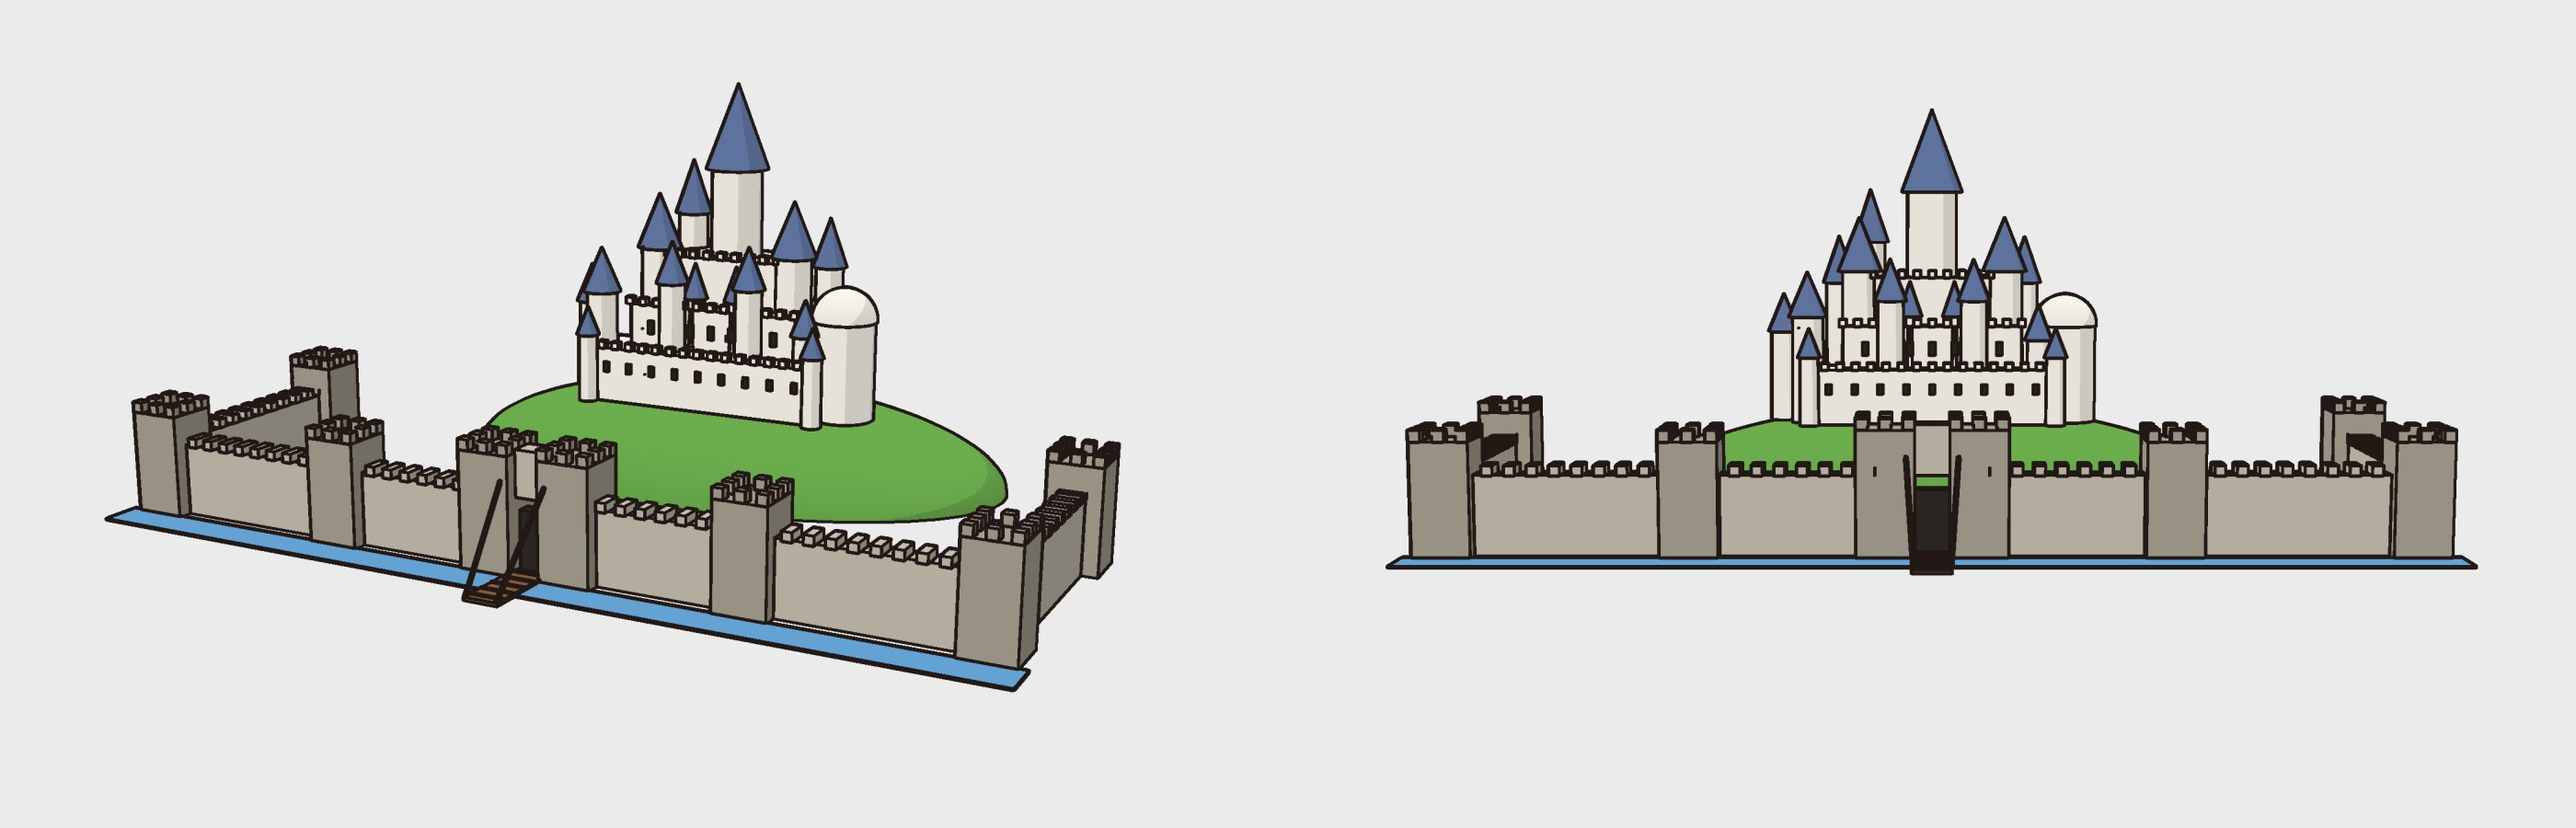
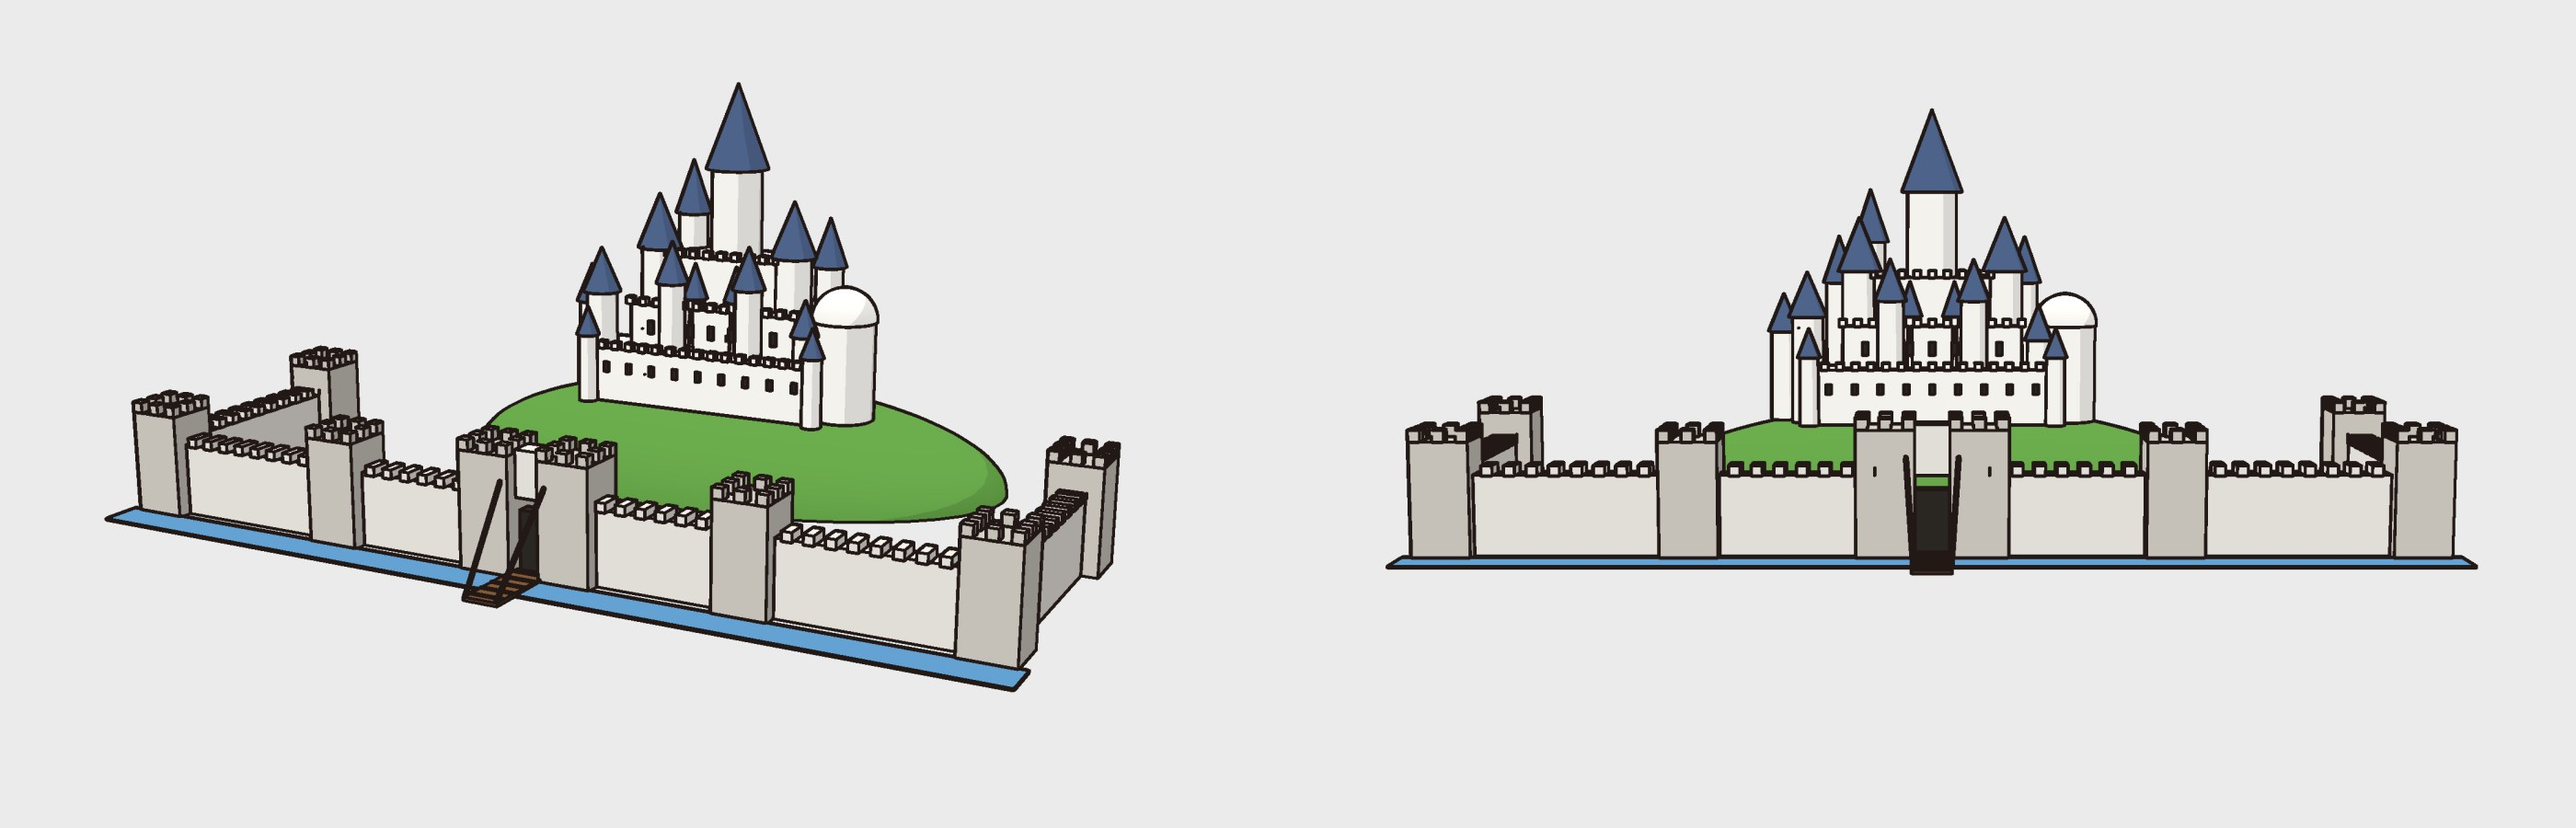
EP002 animatic: final-art loaders in lib (final, final_plate), shield QC stop, castle retint
Claude-Session: https://claude.ai/code/session_01Bi3PXNKGSfsqTH99bT8fk5

Changed region(s): [[0.5282, 0.4978, 0.9632, 0.6844], [0.0311, 0.4356, 0.435, 0.8089]]

diff --git a/secondquest/tools/props3d/scene.ts b/secondquest/tools/props3d/scene.ts
@@ -559,7 +559,7 @@ const crt = () => {
  *  spire, slender round towers with blue-slate cones, and a domed tower on the right. Front faces +z. Units: arbitrary. */
 const hyruleCastle = () => {
   const g = new THREE.Group();
-  const STONE = toon('#b6b0a2'), STONE_D = toon('#9a9486'), PALE = toon('#e9e5dc'), ROOF = toon('#5b6f98'), WOOD = toon('#7a5232'),
+  const STONE = toon('#e4e1da'), STONE_D = toon('#c8c4bb'), PALE = toon('#f7f5f0'), ROOF = toon('#4c6187'), WOOD = toon('#7a5232'),
     DARK = toon('#2b2722'), GRASS = toon('#63a047'), WATER = toon('#5a95c2'), IRON = toon('#3a3a40');
   let part = 800;
   const crenels = (x0: number, x1: number, y: number, z: number, axis: 'x' | 'z', mat: THREE.Material) => {

diff --git a/secondquest/scripts/animatic/lib.py b/secondquest/scripts/animatic/lib.py
@@ -115,6 +115,67 @@ def label_for(spec):
     return spec.get('label')
 
 
+# ------------------------------------------------------------------ final art (generated 2026-10-05, Producer-approved)
+# The generated images are never modified: overlays (the 3D shield, the crest on the banners) are composited on top
+# here, and mirrors are engine transforms. Keys are what the blocks ask for; the numbers are docs/ep002/MISSING_ART.md.
+ART_Q, ART_P, ART_F = 'docs/art_orders/quest/ep002_costume/', 'docs/art_orders/pixie/ep002_costume/', 'docs/art_orders/ep002_final/'
+ART = {
+    'quest_veteran': ART_Q + '01_tunic_veteran.png',              # 1  adult, tunic, front, confident
+    'quest_scared': ART_Q + '02_tunic_scared.png',                # 2  adult, tunic, front, scared
+    'quest_young_back': ART_Q + '03_young_back.png',              # 3  young, tunic, back (walk: alternate with _b)
+    'quest_young_back_b': ART_Q + '03_young_back.png',            # 9  the opposite step = #3 mirrored (Producer)
+    'quest_young_lookup': ART_Q + '03a_young_threequarter_lookup.png',  # 3a looks up to the left (mirror it to look right)
+    'quest_young_front': ART_Q + '03b_young_front_smile.png',     # 3b young, tunic, front, smiling
+    'quest_adult_back': ART_Q + '04_adult_back_gear.png',         # 4  adult, back, 3D shield + scabbard
+    'quest_horse_back': ART_Q + '05b_adult_horse_back_chestnut.png',  # 5b on his chestnut horse, back, 3D shield
+    'kid_quest_play': ART_Q + '06a_kid_playing_seated.png',       # 6a kid, red hoodie, playing, faces right
+    'kid_pixie_point': ART_P + '6b_kid_pointing.png',             # 6b kid Pixie pointing right
+    'kid_pixie_sit': ART_P + '6c_kid_sitting.png',                # 6c kid Pixie sitting, faces right
+    'quest_blow': ART_Q + '10a_blowing_cartridge.png',            # 10a red hoodie, profile right, blowing the cartridge
+    'quest_profile_think': ART_Q + '10b_profile_thinking.png',    # 10 red hoodie, seated profile right, pensive
+    'pixie_impatient': ART_P + '2a_impatient_arms_crossed.png',   # 2a hoodie, arms crossed
+    'pixie_bored': ART_P + '2b_bored_imaginary_watch.png',        # 2b hoodie, imaginary watch, yawn
+    'pixie_tunic_wave': ART_P + '2c_tunic_waving.png',            # 2c tunic, waving
+    'pixie_tunic_awe': ART_P + '2d_tunic_awe.png',                # 2d tunic, looking up in awe
+    'pixie_tunic_think': ART_P + '2e_tunic_thinking.png',         # 2e tunic, thinking
+    'pixie_tunic_back': ART_P + '2f_tunic_back.png',              # 2f tunic, back
+}
+ART_SHIELD = {'quest_adult_back': '04_adult_back', 'quest_horse_back': '05b_horse_back'}   # tools/props3d/shield_mount.py
+ART_FLIP = {'quest_young_back_b'}
+PLATES = {
+    'field': ART_F + '11_field.png',                              # 11 day field: road, castle far away, volcano
+    'forest': ART_F + '12_forest_village.png',                    # 12 forest village
+    'temple': ART_F + '13_temple_pedestal.png',                   # 13 temple hall, empty pedestal (+ crest banners)
+    'tree': ART_F + '14_giant_tree.png',                          # 14 the giant tree
+    'adult_room': ART_F + '15_adult_room_night.png',              # 15 adult Quest's bedroom at night
+    'outcrop': ART_F + '17_18_outcrop_vista.png',                 # 17+18 final shot (+ 3D shield on Quest)
+}
+PLATE_OVERLAYS = {'temple': 'public/art/ep002/overlays/13_temple_crest.png', 'outcrop': 'public/art/ep002/props3d/shield_on_17_18_outcrop.png'}
+
+
+@lru_cache(maxsize=64)
+def final(key, flip=False):
+    """Final character art, cropped to its alpha, with its engine overlays; flip=True mirrors it."""
+    im = Image.open(ROOT / ART[key]).convert('RGBA')
+    if key in ART_SHIELD:
+        im.alpha_composite(Image.open(ROOT / f'public/art/ep002/props3d/shield_on_{ART_SHIELD[key]}.png').convert('RGBA'))
+    # the generator leaves a faint dark haze (alpha 1-24) over the whole canvas: dropped at load, the file is untouched
+    im.putalpha(im.getchannel('A').point(lambda v: 0 if v < 24 else v))
+    im = im.crop(im.getchannel('A').getbbox())
+    if flip != (key in ART_FLIP):
+        im = im.transpose(Image.FLIP_LEFT_RIGHT)
+    return im
+
+
+@lru_cache(maxsize=16)
+def final_plate(key, size=(PW, PH)):
+    """Final background at the working plate size (16:9 plates are 2688x1520: a uniform resize), with its overlays."""
+    im = Image.open(ROOT / PLATES[key]).convert('RGBA')
+    if key in PLATE_OVERLAYS:
+        im.alpha_composite(Image.open(ROOT / PLATE_OVERLAYS[key]).convert('RGBA'))
+    return im.convert('RGB').resize(size, Image.LANCZOS)
+
+
 # ------------------------------------------------------------------ procedural planning plates (MISSING backgrounds)
 def _sky(img, top, bottom, horizon):
     d = ImageDraw.Draw(img)
@@ -233,6 +294,8 @@ PROC = {'field': plate_field, 'forest': plate_forest, 'temple': plate_temple, 't
 @lru_cache(maxsize=32)
 def plate(spec):
     kind = spec[0]
+    if kind == 'final':
+        return final_plate(spec[1])
     if kind == 'img':
         im = Image.open(ROOT / spec[1]).convert('RGB')
         return im.resize((PW, PH), Image.LANCZOS)
@@ -246,7 +309,9 @@ def place(base, spec, t=None):
     if spec.get('full'):          # full-frame layer aligned with the plate (e.g. the N64 setup layer)
         base.alpha_composite(Image.open(ROOT / spec['img']).convert('RGBA').resize((PW, PH), Image.LANCZOS))
         return
-    if 'img' in spec:
+    if 'art' in spec:
+        im = final(spec['art'])
+    elif 'img' in spec:
         im = Image.open(ROOT / spec['img']).convert('RGBA')
         im = im.crop(im.getchannel('A').getbbox())
     else:

diff --git a/secondquest/tools/props3d/shield_mount.py b/secondquest/tools/props3d/shield_mount.py
@@ -121,7 +121,11 @@ def mount(name, art_path, land, tint):
         k = peek & (art[..., 3] > 0)
         over[k, :3] = over[k, :3] * (over[k, 3:] / 255.0) + patch[k, :3] * (1 - over[k, 3:] / 255.0)
         over[k, 3] = 255
-    print(name, f'old shield pixels patched: {int(peek.sum())}')
+    # QC (Producer, 2026-10-05): nothing of the old shield may stay visible; checked on the final overlay, not trusted
+    visible = int((sil & (art[..., 3] > 0) & ~(over[..., 3] > 230)).sum())
+    print(name, f'old shield pixels patched: {int(peek.sum())}, still visible: {visible}')
+    if visible:
+        sys.exit(f'{name}: {visible} px of the old shield still show; fix the landmarks before sending anything')
     out = ROOT / f'public/art/ep002/props3d/shield_on_{name}.png'
     cv2.imwrite(str(out), np.clip(over, 0, 255).astype(np.uint8))
     # placement for the engine: the strap holds the shield near its peak, so the sway turns it about that point

diff --git a/secondquest/docs/ep002/PRODUCER_DECISIONS.md b/secondquest/docs/ep002/PRODUCER_DECISIONS.md
@@ -481,3 +481,9 @@
   the old shield's full silhouette (hull of its blue face and silver rim + ink) and fills whatever still peeks out with
   the surroundings (tunic, strap, sky), sampled only from outside the old shield. Same size and proportion as approved.
   Preview `docs/ep002/shield_on_quest_all_preview.jpg` (#4, #5b, #17+18).
+- Shield QC improvement approved and applied: `shield_mount.py` checks the final overlay and stops if any pixel of the
+  old shield is still visible (0 on #4, #5b, #17+18).
+- "Monta el arte en los bloques ... Continuamos usando animatic ... No uses el motor hasta que yo apruebe": the new art
+  goes into the animatic block scripts only (no engine). `scripts/animatic/lib.py` gains `final(key)` / `final_plate(key)`
+  (3D shield and banner crest composited at load, #9 = #3 mirrored, the generator's faint alpha haze dropped at load;
+  the files are untouched). The own 3D castle is retinted to the plates' look (white walls, slate-blue spires).
